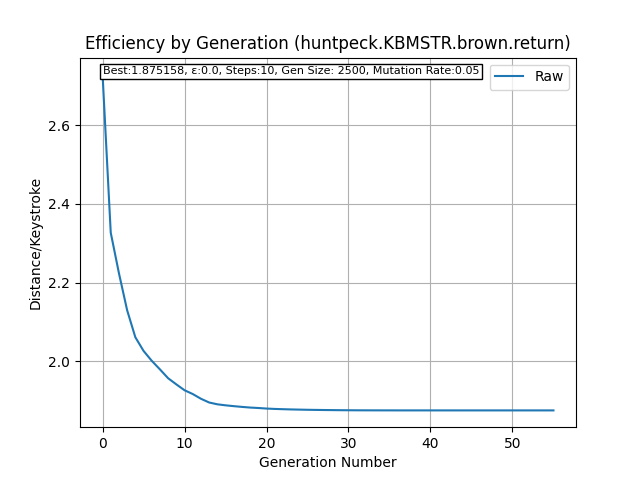
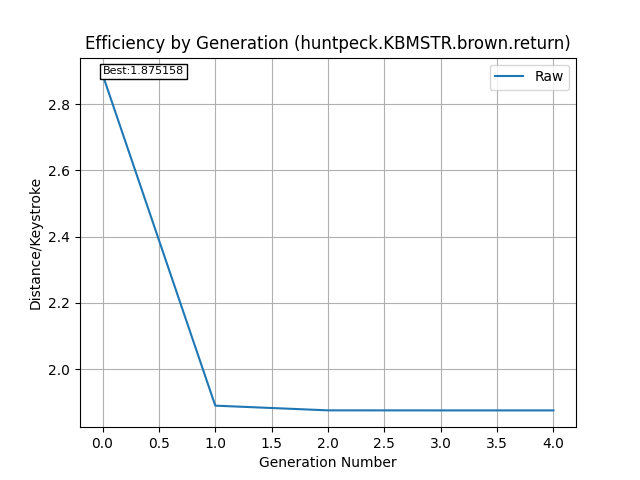
re-generated keyboards

diff --git a/website/index.html b/website/index.html
@@ -246,8 +246,10 @@
                                 <option value="./data/keyboards/dvorak.json ./data/config/huntpeck.json">DVORAK - HuntPeck</option>
                                 <option value="./data/keyboards/standard.KBMSTR.remain.json ./data/config/standard.json">KBMSTR - Standard - Remain</option>
                                 <option value="./data/keyboards/huntpeck.KBMSTR.remain.json ./data/config/huntpeck.json">KBMSTR - HuntPeck - Remain</option>
+                                <option value="./data/keyboards/noah.KBMSTR-code.remain.json ./data/config/noah.json">Noah - Coding -  Remain</option>
                                 <option value="./data/keyboards/standard.KBMSTR.return.json ./data/config/standard.json">KBMSTR - Standard - Return</option>
                                 <option value="./data/keyboards/huntpeck.KBMSTR.return.json ./data/config/huntpeck.json">KBMSTR - HuntPeck - Return</option>
+                                <option value="./data/keyboards/noah.KBMSTR-code.return.json ./data/config/noah.json">Noah - Coding -  Return</option>
                             </select>
                             <button class="practice-tools-load" id="load-preset" onkeyup="event.preventDefault()"><i class="fa-solid fa-wrench"></i> Load Preset</button>
                         </div>

diff --git a/README.md b/README.md
@@ -13,6 +13,7 @@
 
 # <img src="docs/images/KBMSTR_logo.png" alt="KBMSTR Logo" height="32" id="introduction"> Introduction
 
+## Purpose
 KBMSTER provides an array of tools for a user to find the best layout of a keyboard for their own personalized use.
 By utilizing these tools, a user is able to collect data on actual typing habits and in turn use this data to generate
 a keyboard layout to their exact needs. The goal of a generating a layout is to minimize the finger travel distance when
@@ -21,9 +22,28 @@ will prove useful to anyone looking to improve their typing efficiency. The deve
 layout, personalized to an individual, is involved, yet simple. KBMSTR works with the user to collect actual keystrokes
 from the user in a transparent and non-invasive way by utilizing [KBMSTR's data collection tool](https://www.kbmstr.com).
 Once a sufficient amount of data is collected and the user utilizes [KBMSTR's configuration tool](https://www.kbmstr.com) to let the algorithm know
-actual typing habits, KBMSTR will then utilize these two items to employ a genetic algorithm to find the absolute best keyboard layout
+actual typing habits, KBMSTR will then utilize these two items to employ [a unique algorithm](#the-algorithm) to find the absolute best keyboard layout
 for you. This, paired with [KBMSTR's practice tool](https://www.kbmstr.com) allow for users to dramaGtically speed up their typing speeds
 and reduce hand fatigue while using the computer.
+
+## The Algorithm
+The KBMSTR uses a unique algorithm to find the best keyboard layout. This algorithm is best described as a cross
+between a local search and genetic algorithm. It is definitely greedy. The algorithm takes the best known layout (at the beginning, this can be anything)
+and generates (# chars in layout)^2 / 2 succeeding layouts. Each one of these layouts can be achieved by swapping any
+2 keys of the current best layout. The current iteration of the algorithm only knows its adjacent states, hence the 
+local search aspect. If we consider the set of succeeding states as the population of the current generation, then
+we can look for the best aspects in the generation and use them to make a new generation - hence the genetic aspect. This is done by
+first looking at each one of the succeeding layouts and putting it through a fitness evaluation function. The 
+succeeding states are then ordered from best to worst. Since we know which two keys are swapped to achieve
+each succeeding state, we are able to go down the line of most to least effective swaps, and making said swaps
+if the key has not already been swapped at this iteration. The algorithm only does this with succeeding states that have a better
+fitness evaluation than the current state. As a result, we make as many swaps possible that will improve the performance
+of the layout in the fitness function.
+
+The algorithm was designed this way to reduce the socratic element of genetic search and shorten the number
+of generations needed to find the absolute best keyboard. The algorithm terminates knowing the best keyboard
+relative to the dataset and configuration - this is guaranteed as there is not existing swap that will improve
+the fitness metric at termination.
 
 # <img src="docs/images/download.png" alt="Download Icon" height="32" id="installation"> Installation
 
@@ -97,7 +117,7 @@ Again, the program is able to read multiple zip archives that may contain other 
 ### Included Datasets
 - **books** - Thanks to [Project Guntenberg](https://www.gutenberg.org/), this dataset contains around 300 free books.
 - **brown** - This dataset contains a portion of the Brown English Corpus.
-- **code** - This dataset contains the entire source code of the KBMSTR project.
+- **KBMSTR_code** - This dataset contains the entire source code of the KBMSTR project.
 - **shakespeare** - This dataset contains ever work of William Shakespeare.
 
 ## Creating a config
@@ -208,9 +228,8 @@ most people are taught to type on a keyboard.
 <br>
 
 A quick overview of running KBMSTR.py:
-
-
-    python3 KBMSTR.py [-h] [-dataset DATASET] [-char_checkpoint SIZE] [-name NAME] [-gen_size SIZE] [-mutation_rate RATE] [-epsilon EPSILON] [-steps_to_converge STEPS] [-save_stats] [-analyze] [-display] keyboard config
+  
+    python3 KBMSTR.py [-h] [-dataset DATASET] [-char_checkpoint SIZE] [-name NAME] [-save_stats] [-analyze] [-display] keyboard config
 
 ### Positional Arguments
 These arguments are required for every use of KBMSTR.py
@@ -252,33 +271,6 @@ containing the keyboard, and the generation statistic graph is the [save_stats](
 argument is present. The default is the time and day the program terminates.
 This argument is ignored if the [display](#display) or [analyze](#analyze) arguments are present.
 
-#### gen_size
-The value of this argument is an Integer that will become the size of each generation. You may notice that at each generation, the status bar 
-indicates a smaller number of keyboards than the selected generation size. This is OK - all this means is that there were 
-duplicate layouts when the new generation was created - we don't need to calculate the fitness of the same layout twice! 
-However, duplicate layouts are not linted across generations (Too many possible layouts!). The value is defaulted to 2500.
-This argument is ignored if the [display](#display) or [analyze](#analyze) arguments are present.
-
-#### mutation_rate
-The value of this argument is a Float representation of what percentage of keys will be swapped when new
-keyboard layouts are being generated for fitness calculation. If set to 1.0, each generation will be completely random.
-This should be a value greater than 0.0 to preserve generational diversity. The default is 0.1. This argument
-is ignored if the [display](#display) or [analyze](#analyze) arguments are present.
-
-#### epsilon
-The value of this argument is a Float representing the threshold in which to call no change between generations. If the change
-between the last generation and the current generation is less than this value, the program will increment 
-the step number to indicate convergence. Also see (steps_to_converge)[#steps_to_converge]. The default is
-0.0, this is mostly here if one wishes for the program to complete quicker by not caring about small improvements.
-This argument is ignored if the [display](#display) or [analyze](#analyze) arguments are present.
-
-#### steps_to_converge
-This argument is an Integer representing the number of steps needed in a row for the program
-to deem convergence. For each generation, if the change in efficiency is less than the [epsilion values](#epsilon),
-the program takes a step. Once the number of steps is equal to this value, the program considers the current
-best keyboard as the absolute best keyboard. Steps are reset to 0 if the change between generations is greater
-than epsilon. The default value is 10. This argument is ignored if the [display](#display) or [analyze](#analyze) arguments are present.
-
 #### save_stats
 The presence of this flag tells the program to keep track of the best efficiency of each generation in order
 to create a visual representation of efficiency as the keyboard layouts evolve. There is no value for this flag.
@@ -304,10 +296,13 @@ as defined in keyboard and config.
 - **DVORAK** - A much less common, but still standard keyboard developed in 1932.
 - **KBMSTR HuntPeck** - two flavors included (remain/return).
   - Remain: The best keyboard layout for using the HuntPeck method of typing without returning fingers to home keys after each stroke.
-  - Return: The best keyboard layput for using the HuntPeck method of typing with returning fingers to home keys after each stroke.
+  - Return: The best keyboard layout for using the HuntPeck method of typing with returning fingers to home keys after each stroke.
 - **KBMSTR Standard** - two flavors included (remain/return)
   - Remain: The best keyboard layout for using the Standard method of typing without returning fingers to home keys after each stroke.
-  - Return: The best keyboard layput for using the Standard method of typing with returning fingers to home keys after each stroke.
+  - Return: The best keyboard layout for using the Standard method of typing with returning fingers to home keys after each stroke.
+- **Noah's Coding Keyboard** - two flavors included (remain/return)
+  - Remain: The best keyboard layout for using the Standard method of typing without returning fingers to home keys after each stroke.
+  - Return: The best keyboard layout for using the Standard method of typing with returning fingers to home keys after each stroke.
 
 # <img src="docs/images/learn.png" alt="Student Icon" height="32" id="practice-new-keyboards"> Practice New Keyboards
 By visiting [The Official KBMSTR Website](https://www.kbmstr.com), a user will be able to practice their typing both on the keyboard
